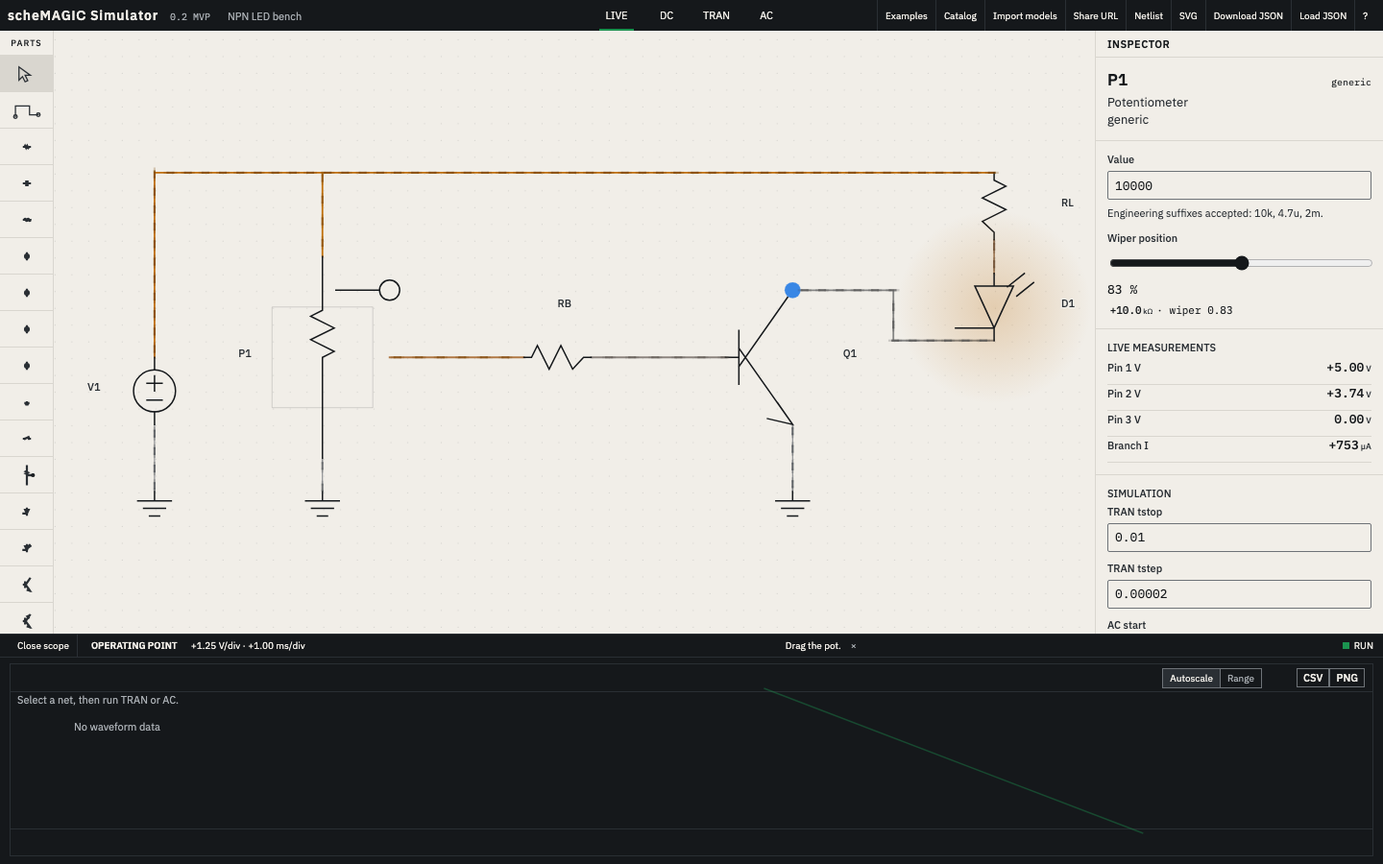
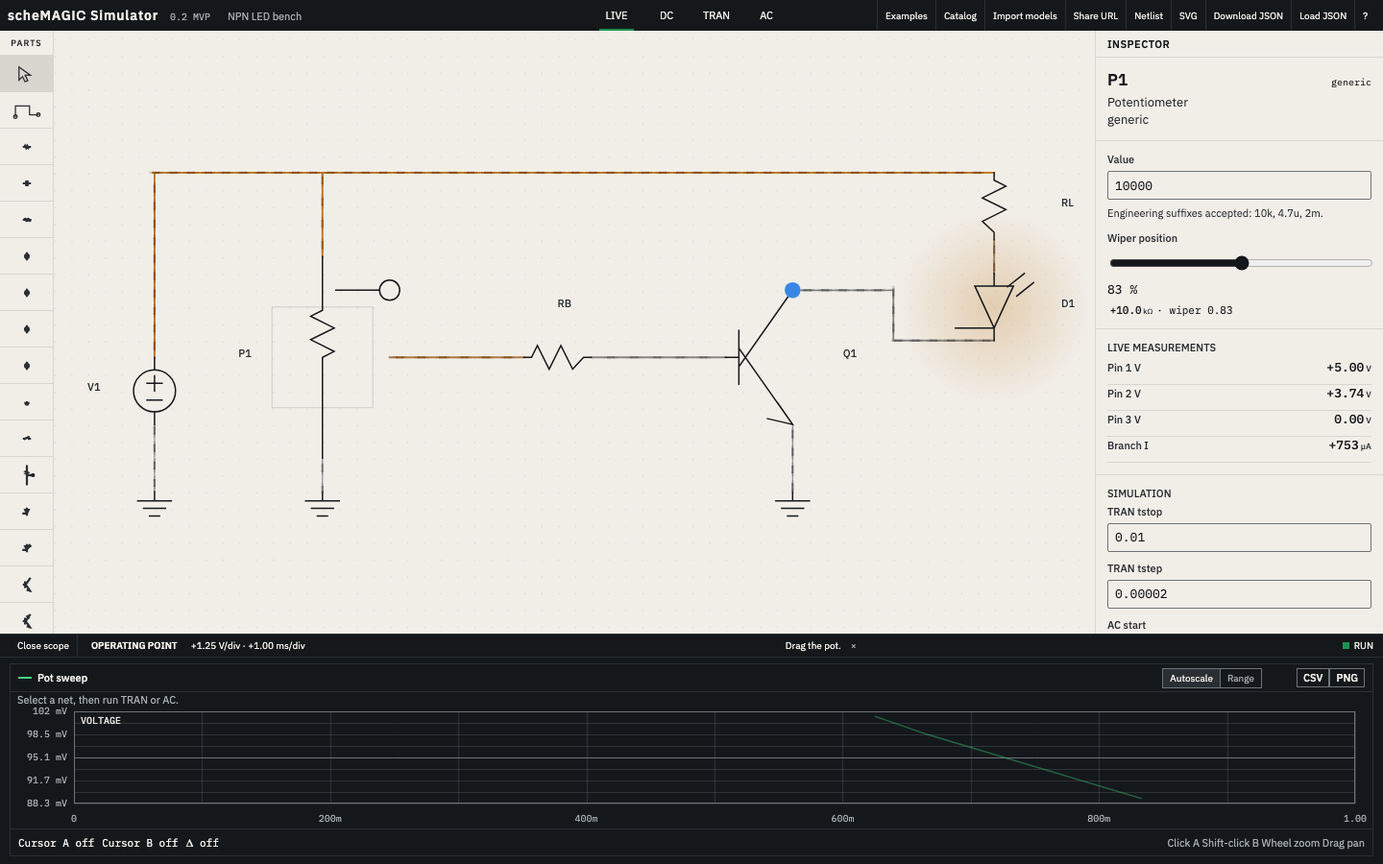
fix(web): clip pot sweep locus

Changed region(s): [[0.0312, 0.7778, 0.9688, 0.9644], [0.8438, 0.9644, 0.9688, 0.9956], [0.0312, 0.9644, 0.1562, 0.9956]]

diff --git a/apps/web/src/main.ts b/apps/web/src/main.ts
@@ -67,13 +67,13 @@ function simConfigMarkup(){const tran=circuit.sim.tran??{tstop:.01,tstep:.00002}
 function bindInspector(){document.querySelector<HTMLButtonElement>("[data-inspector-model-card]")?.addEventListener("click",event=>catalogDialog.open((event.currentTarget as HTMLButtonElement).dataset.inspectorModelCard));const value=document.querySelector<HTMLInputElement>("#component-value");value?.addEventListener("change",()=>{if(!selectedId)return;const raw=value.value.trim();if(!Number.isFinite(parseEngineering(raw,NaN)))return;editor.edit(doc=>{const c=doc.components.find(item=>item.id===selectedId);if(c)c.value=raw;});});const wiper=document.querySelector<HTMLInputElement>("#wiper-value");wiper?.addEventListener("pointerdown",()=>{liveGesture=true;editor.beginGesture();scopePlot.beginLocus();const finish=()=>{editor.endGesture();liveGesture=false;scopePlot.endLocus();renderInspector();};window.addEventListener("pointerup",finish,{once:true});});wiper?.addEventListener("input",()=>{const t=Number(wiper.value);editor.editLive(doc=>{const c=doc.components.find(item=>item.id===selectedId);if(c)c.params={...(c.params??{}),t};});patchReadings();});document.querySelector<HTMLInputElement>("#switch-state")?.addEventListener("change",event=>editor.edit(doc=>{const c=doc.components.find(item=>item.id===selectedId);if(c)c.params={...(c.params??{}),closed:(event.target as HTMLInputElement).checked};}));document.querySelectorAll<HTMLInputElement>(".sim-field").forEach(input=>input.addEventListener("change",()=>{const number=parseEngineering(input.value,NaN);if(!Number.isFinite(number)||number<=0)return;editor.edit(doc=>{doc.sim.tran??={tstop:.01,tstep:.00002,maxstep:.00005};doc.sim.ac??={fstart:10,fstop:1e6,pointsPerDecade:30,sweep:"dec"};switch(input.dataset.sim){case"tstop":doc.sim.tran.tstop=number;break;case"tstep":doc.sim.tran.tstep=number;break;case"fstart":doc.sim.ac.fstart=number;break;case"fstop":doc.sim.ac.fstop=number;break;case"points":doc.sim.ac.pointsPerDecade=Math.round(number);break;}});}));}
 function scheduleSave(){clearTimeout(saveTimer);saveTimer=setTimeout(()=>{workspace!.document=circuit;workspace!.updatedAt=Date.now();void saveWorkspace(workspace!);must<HTMLElement>("#workspace-button").textContent=workspace!.name;},250);}
 function scheduleSimulation(){clearTimeout(timer);timer=setTimeout(()=>void simulate(),30)}
-async function loadExample(id:string){const example=EXAMPLES.find(item=>item.id===id);if(!example)return;circuit=structuredClone(example.document);workspace=makeWorkspace(circuit,example.title);selectedId=circuit.components[0]?.id;editor.setDocument(circuit);requestAnimationFrame(()=>editor.fit());renderImportedPalette();must<HTMLElement>("#workspace-button").textContent=workspace.name;document.querySelectorAll<HTMLButtonElement>("[data-mode]").forEach(button=>button.setAttribute("aria-selected",String(button.dataset.mode===circuit.sim.mode)));must<HTMLElement>("#scope-title").textContent=circuit.sim.mode==="tran"?"TRANSIENT":circuit.sim.mode==="ac"?"AC RESPONSE":"OPERATING POINT";history.replaceState(null,"",exampleHash(id));await saveWorkspace(workspace);renderInspector();scheduleSimulation();}
+async function loadExample(id:string){const example=EXAMPLES.find(item=>item.id===id);if(!example)return;scopePlot.clearLocus();circuit=structuredClone(example.document);workspace=makeWorkspace(circuit,example.title);selectedId=circuit.components[0]?.id;editor.setDocument(circuit);requestAnimationFrame(()=>editor.fit());renderImportedPalette();must<HTMLElement>("#workspace-button").textContent=workspace.name;document.querySelectorAll<HTMLButtonElement>("[data-mode]").forEach(button=>button.setAttribute("aria-selected",String(button.dataset.mode===circuit.sim.mode)));must<HTMLElement>("#scope-title").textContent=circuit.sim.mode==="tran"?"TRANSIENT":circuit.sim.mode==="ac"?"AC RESPONSE":"OPERATING POINT";history.replaceState(null,"",exampleHash(id));await saveWorkspace(workspace);renderInspector();scheduleSimulation();}
 function renderDiagnostics(){const stack=must<HTMLElement>("#toast-stack");stack.innerHTML=diagnostics.map((entry,index)=>`<button class="error-toast" data-error="${index}"><span class="fault-glyph"></span>${esc(entry.message)}</button>`).join("");stack.querySelectorAll<HTMLButtonElement>("[data-error]").forEach(button=>button.addEventListener("click",()=>{const entry=diagnostics[Number(button.dataset.error)];if(entry?.componentId){selectedId=entry.componentId;renderInspector();}}));}
 function applyWireVisuals(){if(!generated)return;for(const wire of latestWireFlows){const node=generated.wireNodes[wire.id]??"0";const chromaScale=hoveredNode&&hoveredNode!==node?.toString()?0.35:1;editor.setWireStyle(wire.id,{stroke:voltageColor(wire.voltage,latestVref,chromaScale),dash:wire.voltage<-.05?"8 4":"none",width:Math.abs(wire.voltage)<=.05?0.9:1.8});editor.setWireCurrent(wire.id,wire.current);}pulseRenderer.update(latestWireFlows,latestVref);}
 function updateVisuals(){if(!generated)return;const targets=new Map<string,number>();for(const node of new Set(Object.values(generated.wireNodes)))targets.set(node,node==="0"?0:scalar(visualResult,`v(${node})`)??0);const now=performance.now(),tau=liveGesture?40:120,alpha=1-Math.exp(-(now-lastVoltageUpdate)/tau);lastVoltageUpdate=now;for(const [node,target] of targets)smoothedVoltages.set(node,smoothedVoltages.has(node)?(smoothedVoltages.get(node)!+(target-smoothedVoltages.get(node)!)*alpha):target);latestVref=snapReference([...targets.values()]);latestWireFlows=circuit.wires.map(wire=>{const node=generated!.wireNodes[wire.id]??"0",voltage=smoothedVoltages.get(node)??targets.get(node)??0,endpoints=new Set(wire.points.map(point=>point.join(","))),attached=circuit.components.filter(component=>component.type!=="ground").filter(component=>componentPinPoints(component).some(point=>endpoints.has(point.join(",")))).sort((a,b)=>a.id.localeCompare(b.id)),owner=attached.find(component=>generated!.componentCurrents[component.id]);let current=owner?scalar(visualResult,currentVector(generated!.componentCurrents[owner.id]!))??0:0;const pin0=owner&&componentPinPoints(owner)[0];if(pin0&&endpoints.has(pin0.join(",")))current=-current;return{id:wire.id,voltage,current};});applyWireVisuals();for(const component of circuit.components.filter(c=>c.type==="led")){const current=Math.abs(componentCurrent(component)??0),visible=Math.max(0,Math.min(1,(current-200e-6)/(20e-3-200e-6)));editor.setLedBrightness(component.id,visible**.65);}const reference=formatEngineering(latestVref,"V"),half=formatEngineering(latestVref/2,"V"),referenceValue=reference.value.replace(/^[+− ]/,""),halfValue=half.value.replace(/^[+− ]/,"");must<HTMLElement>("#vref-negative").textContent=`−${referenceValue} ${reference.unit}`;must<HTMLElement>("#vref-negative-half").textContent=`−${halfValue} ${half.unit}`;must<HTMLElement>("#vref-positive-half").textContent=`+${halfValue} ${half.unit}`;must<HTMLElement>("#vref-positive").textContent=`+${referenceValue} ${reference.unit}`;must<HTMLElement>("#scope-vdiv").textContent=`${formatEngineering(latestVref/4,"V").value.trim()} ${formatEngineering(latestVref/4,"V").unit}/div`;const secondsPerDivision=(circuit.sim.tran?.tstop??.01)/10;must<HTMLElement>("#scope-sdiv").textContent=`${formatEngineering(secondsPerDivision,"s").value.trim()} ${formatEngineering(secondsPerDivision,"s").unit}/div`;scopePlot.setProbes(activeScopeProbes());scopePlot.setData(circuit.sim.mode,circuit.sim.mode==="tran"||circuit.sim.mode==="ac"?scopeResult:undefined);scopeEmpty.hidden=(scopeResult?.vectors.length??0)>0&&circuit.probes.length>0;if(liveGesture){const pot=circuit.components.find(component=>component.type==="potentiometer"),probe=activeScopeProbes()[0];if(pot&&probe){const value=probe.node==="0"?0:scalar(visualResult,`v(${probe.node})`);if(value!==undefined)scopePlot.addLocusPoint(Number(pot.params?.t??.5),value);}}renderProbeMarkers();if(liveGesture)patchReadings();else renderInspector();renderDiagnostics();}
 async function simulate(){const generation=++solve;setStatus("Running ngspice WebAssembly solve","busy");diagnostics=loadDiagnostic?[loadDiagnostic]:[];const validation=validateCircuit(circuit);if(validation.length){diagnostics.push(...validation.map(issue=>({stage:"parse" as const,message:issue.message,...(issue.componentId?{componentId:issue.componentId}:{})})));setStatus(validation[0]!.message,"error");renderDiagnostics();return;}try{generated=generateProjectNetlist(circuit,"op");const op=await client.runOpPoint(generated.netlist);if(generation!==solve)return;visualResult=op;window.__ocMetrics.rawfileBytes=op.rawfileBytes;window.__ocMetrics.warmOpMs.push(op.elapsedMs);if(circuit.sim.mode==="tran"||circuit.sim.mode==="ac"){generated=generateProjectNetlist(circuit,circuit.sim.mode);scopeResult=circuit.sim.mode==="tran"?await client.runTransient(generated.netlist):await client.runAC(generated.netlist);if(generation!==solve)return;window.__ocMetrics.rawfileBytes=Math.max(op.rawfileBytes,scopeResult.rawfileBytes);}else scopeResult=undefined;setStatus(`ENGINE READY · ${engineLabel} · ${op.elapsedMs.toFixed(1)} ms solve`,"ready");updateVisuals();}catch(error){if(generation!==solve)return;const failure=error instanceof SimulationFailure?error:undefined;diagnostics=failure?.detail.diagnostics.length?failure.detail.diagnostics.map(entry=>{if(entry.componentId||entry.netLine===undefined)return entry;const mapped=generated?.lineMap.find(line=>line.line===entry.netLine);return mapped?.componentId?{...entry,componentId:mapped.componentId}:entry;}):[{stage:"engine",message:error instanceof Error?error.message:String(error)}];const failedPot=liveGesture?circuit.components.find(component=>component.type==="potentiometer"):undefined;setStatus(failedPot?`no convergence at wiper ${Number(failedPot.params?.t??.5).toFixed(2)}`:(diagnostics[0]?.message??"Simulation failed"),"error");renderDiagnostics();}finally{}}
-function bind(){must<HTMLButtonElement>("#catalog-button").addEventListener("click",()=>catalogDialog.open());const examplesOverlay=must<HTMLElement>("#examples-overlay");must<HTMLButtonElement>("#examples-button").addEventListener("click",()=>examplesOverlay.hidden=false);examplesOverlay.querySelector("[data-close-examples]")?.addEventListener("click",()=>examplesOverlay.hidden=true);examplesOverlay.querySelectorAll<HTMLButtonElement>("[data-example]").forEach(button=>button.addEventListener("click",async()=>{examplesOverlay.hidden=true;await loadExample(button.dataset.example!);}));must<HTMLButtonElement>("#import-models").addEventListener("click",()=>modelImportDialog.open());const about=must<HTMLElement>("#about-overlay");must<HTMLButtonElement>("#about-licences").addEventListener("click",()=>about.hidden=false);about.querySelector("[data-close-about]")?.addEventListener("click",()=>about.hidden=true);renderImportedPalette();const guidance=must<HTMLElement>("#guidance");guidance.hidden=localStorage.getItem("schemagic.guidance-dismissed")==="1";must<HTMLButtonElement>("#guidance-dismiss").addEventListener("click",()=>{localStorage.setItem("schemagic.guidance-dismissed","1");guidance.hidden=true;});document.querySelectorAll<HTMLButtonElement>("[data-tool]").forEach(button=>button.addEventListener("click",()=>{pendingCatalogPart=undefined;pendingImportedPart=undefined;editor.setTool(button.dataset.tool as Parameters<typeof editor.setTool>[0]);document.querySelectorAll("[data-tool]").forEach(item=>item.classList.toggle("active",item===button));}));document.querySelectorAll<HTMLButtonElement>("[data-mode]").forEach(button=>button.addEventListener("click",()=>{const mode=button.dataset.mode as AnalysisMode;editor.edit(doc=>{doc.sim.mode=mode});document.querySelectorAll<HTMLButtonElement>("[data-mode]").forEach(item=>item.setAttribute("aria-selected",String(item===button)));must<HTMLElement>("#scope-title").textContent=mode==="tran"?"TRANSIENT":mode==="ac"?"AC RESPONSE":"OPERATING POINT";}));must<HTMLButtonElement>("#scope-toggle").addEventListener("click",()=>{shell.classList.toggle("scope-collapsed");must<HTMLButtonElement>("#scope-toggle").textContent=shell.classList.contains("scope-collapsed")?"Open scope":"Close scope";});must<HTMLButtonElement>("#copy-link").addEventListener("click",async()=>{if(importedParts(circuit).length){setStatus("Imported model source stays browser-local. Use Download JSON to export the project.","error");return;}const url=shareUrl(circuit);if(url.length>8000)setStatus("Share URL is long. Download JSON is recommended.","error");try{await navigator.clipboard.writeText(url);setStatus("Share URL copied","ready");}catch{history.replaceState(null,"",url);setStatus("Share URL placed in the address bar","ready");}});must<HTMLButtonElement>("#export-spice").addEventListener("click",()=>{try{download(`${workspace!.name}.cir`,generateProjectNetlist(circuit,circuit.sim.mode==="live"?"op":circuit.sim.mode).netlist,"text/plain");}catch(error){setStatus(error instanceof Error?error.message:String(error),"error");}});must<HTMLButtonElement>("#export-svg").addEventListener("click",()=>download(`${workspace!.name}.svg`,editor.exportSvg(),"image/svg+xml"));must<HTMLButtonElement>("#export-json").addEventListener("click",()=>download(`${workspace!.name}.json`,canonicalizeCircuit(circuit),"application/json"));must<HTMLButtonElement>("#import-json").addEventListener("click",()=>must<HTMLInputElement>("#json-file").click());must<HTMLInputElement>("#json-file").addEventListener("change",async event=>{const file=(event.target as HTMLInputElement).files?.[0];if(!file)return;try{const loaded=migrateCircuit(JSON.parse(await file.text()));workspace=makeWorkspace(loaded);circuit=loaded;editor.setDocument(loaded);requestAnimationFrame(()=>editor.fit());renderImportedPalette();await saveWorkspace(workspace);scheduleSimulation();}catch(error){diagnostics=[{stage:"parse",message:error instanceof Error?error.message:String(error)}];renderDiagnostics();}});const shortcut=must<HTMLElement>("#shortcut-overlay");must<HTMLButtonElement>("#help-button").addEventListener("click",()=>shortcut.hidden=false);shortcut.querySelector("[data-close-overlay]")?.addEventListener("click",()=>shortcut.hidden=true);window.addEventListener("keydown",event=>{if(event.key==="?"&&!(event.target instanceof HTMLInputElement)){shortcut.hidden=false;}if(event.key==="Escape")shortcut.hidden=true;});bindWorkspaces();}
-function bindWorkspaces(){const overlay=must<HTMLElement>("#workspace-overlay"),button=must<HTMLButtonElement>("#workspace-button");button.addEventListener("click",()=>{overlay.hidden=false;void renderWorkspaceList();});overlay.querySelector("[data-close-workspaces]")?.addEventListener("click",()=>overlay.hidden=true);must<HTMLButtonElement>("#new-workspace").addEventListener("click",async()=>{workspace=makeWorkspace(structuredClone(demoCircuit),"Untitled circuit");workspace.document.meta.title=workspace.name;editor.setDocument(workspace.document);requestAnimationFrame(()=>editor.fit());renderImportedPalette();circuit=workspace.document;await saveWorkspace(workspace);button.textContent=workspace.name;overlay.hidden=true;scheduleSimulation();});must<HTMLButtonElement>("#rename-workspace").addEventListener("click",async()=>{const name=prompt("Workspace name",workspace!.name)?.trim();if(!name)return;workspace!.name=name;editor.edit(doc=>doc.meta.title=name);workspace!.updatedAt=Date.now();await saveWorkspace(workspace!);button.textContent=name;void renderWorkspaceList();});must<HTMLButtonElement>("#duplicate-workspace").addEventListener("click",async()=>{workspace=makeWorkspace(circuit,`${workspace!.name} copy`);workspace.document.meta.title=workspace.name;editor.setDocument(workspace.document);requestAnimationFrame(()=>editor.fit());renderImportedPalette();circuit=workspace.document;await saveWorkspace(workspace);button.textContent=workspace.name;void renderWorkspaceList();});must<HTMLButtonElement>("#delete-workspace").addEventListener("click",async()=>{await deleteWorkspace(workspace!.id);workspace=makeWorkspace(structuredClone(demoCircuit));circuit=workspace.document;editor.setDocument(circuit);requestAnimationFrame(()=>editor.fit());renderImportedPalette();await saveWorkspace(workspace);button.textContent=workspace.name;overlay.hidden=true;scheduleSimulation();});}
-async function renderWorkspaceList(){const rows=await listWorkspaces();must<HTMLElement>("#workspace-list").innerHTML=rows.map(row=>`<button class="workspace-row" data-workspace="${row.id}"><strong>${esc(row.name)}</strong><span>${new Date(row.updatedAt).toLocaleString()}</span></button>`).join("");document.querySelectorAll<HTMLButtonElement>("[data-workspace]").forEach(row=>row.addEventListener("click",async()=>{const loaded=await loadWorkspace(row.dataset.workspace!);if(!loaded)return;workspace=loaded;circuit=loaded.document;editor.setDocument(circuit);requestAnimationFrame(()=>editor.fit());renderImportedPalette();must<HTMLElement>("#workspace-button").textContent=workspace.name;must<HTMLElement>("#workspace-overlay").hidden=true;scheduleSimulation();}));}
+function bind(){must<HTMLButtonElement>("#catalog-button").addEventListener("click",()=>catalogDialog.open());const examplesOverlay=must<HTMLElement>("#examples-overlay");must<HTMLButtonElement>("#examples-button").addEventListener("click",()=>examplesOverlay.hidden=false);examplesOverlay.querySelector("[data-close-examples]")?.addEventListener("click",()=>examplesOverlay.hidden=true);examplesOverlay.querySelectorAll<HTMLButtonElement>("[data-example]").forEach(button=>button.addEventListener("click",async()=>{examplesOverlay.hidden=true;await loadExample(button.dataset.example!);}));must<HTMLButtonElement>("#import-models").addEventListener("click",()=>modelImportDialog.open());const about=must<HTMLElement>("#about-overlay");must<HTMLButtonElement>("#about-licences").addEventListener("click",()=>about.hidden=false);about.querySelector("[data-close-about]")?.addEventListener("click",()=>about.hidden=true);renderImportedPalette();const guidance=must<HTMLElement>("#guidance");guidance.hidden=localStorage.getItem("schemagic.guidance-dismissed")==="1";must<HTMLButtonElement>("#guidance-dismiss").addEventListener("click",()=>{localStorage.setItem("schemagic.guidance-dismissed","1");guidance.hidden=true;});document.querySelectorAll<HTMLButtonElement>("[data-tool]").forEach(button=>button.addEventListener("click",()=>{pendingCatalogPart=undefined;pendingImportedPart=undefined;editor.setTool(button.dataset.tool as Parameters<typeof editor.setTool>[0]);document.querySelectorAll("[data-tool]").forEach(item=>item.classList.toggle("active",item===button));}));document.querySelectorAll<HTMLButtonElement>("[data-mode]").forEach(button=>button.addEventListener("click",()=>{const mode=button.dataset.mode as AnalysisMode;scopePlot.clearLocus();editor.edit(doc=>{doc.sim.mode=mode});document.querySelectorAll<HTMLButtonElement>("[data-mode]").forEach(item=>item.setAttribute("aria-selected",String(item===button)));must<HTMLElement>("#scope-title").textContent=mode==="tran"?"TRANSIENT":mode==="ac"?"AC RESPONSE":"OPERATING POINT";}));must<HTMLButtonElement>("#scope-toggle").addEventListener("click",()=>{shell.classList.toggle("scope-collapsed");must<HTMLButtonElement>("#scope-toggle").textContent=shell.classList.contains("scope-collapsed")?"Open scope":"Close scope";});must<HTMLButtonElement>("#copy-link").addEventListener("click",async()=>{if(importedParts(circuit).length){setStatus("Imported model source stays browser-local. Use Download JSON to export the project.","error");return;}const url=shareUrl(circuit);if(url.length>8000)setStatus("Share URL is long. Download JSON is recommended.","error");try{await navigator.clipboard.writeText(url);setStatus("Share URL copied","ready");}catch{history.replaceState(null,"",url);setStatus("Share URL placed in the address bar","ready");}});must<HTMLButtonElement>("#export-spice").addEventListener("click",()=>{try{download(`${workspace!.name}.cir`,generateProjectNetlist(circuit,circuit.sim.mode==="live"?"op":circuit.sim.mode).netlist,"text/plain");}catch(error){setStatus(error instanceof Error?error.message:String(error),"error");}});must<HTMLButtonElement>("#export-svg").addEventListener("click",()=>download(`${workspace!.name}.svg`,editor.exportSvg(),"image/svg+xml"));must<HTMLButtonElement>("#export-json").addEventListener("click",()=>download(`${workspace!.name}.json`,canonicalizeCircuit(circuit),"application/json"));must<HTMLButtonElement>("#import-json").addEventListener("click",()=>must<HTMLInputElement>("#json-file").click());must<HTMLInputElement>("#json-file").addEventListener("change",async event=>{const file=(event.target as HTMLInputElement).files?.[0];if(!file)return;try{const loaded=migrateCircuit(JSON.parse(await file.text()));scopePlot.clearLocus();workspace=makeWorkspace(loaded);circuit=loaded;editor.setDocument(loaded);requestAnimationFrame(()=>editor.fit());renderImportedPalette();await saveWorkspace(workspace);scheduleSimulation();}catch(error){diagnostics=[{stage:"parse",message:error instanceof Error?error.message:String(error)}];renderDiagnostics();}});const shortcut=must<HTMLElement>("#shortcut-overlay");must<HTMLButtonElement>("#help-button").addEventListener("click",()=>shortcut.hidden=false);shortcut.querySelector("[data-close-overlay]")?.addEventListener("click",()=>shortcut.hidden=true);window.addEventListener("keydown",event=>{if(event.key==="?"&&!(event.target instanceof HTMLInputElement)){shortcut.hidden=false;}if(event.key==="Escape")shortcut.hidden=true;});bindWorkspaces();}
+function bindWorkspaces(){const overlay=must<HTMLElement>("#workspace-overlay"),button=must<HTMLButtonElement>("#workspace-button");button.addEventListener("click",()=>{overlay.hidden=false;void renderWorkspaceList();});overlay.querySelector("[data-close-workspaces]")?.addEventListener("click",()=>overlay.hidden=true);must<HTMLButtonElement>("#new-workspace").addEventListener("click",async()=>{scopePlot.clearLocus();workspace=makeWorkspace(structuredClone(demoCircuit),"Untitled circuit");workspace.document.meta.title=workspace.name;editor.setDocument(workspace.document);requestAnimationFrame(()=>editor.fit());renderImportedPalette();circuit=workspace.document;await saveWorkspace(workspace);button.textContent=workspace.name;overlay.hidden=true;scheduleSimulation();});must<HTMLButtonElement>("#rename-workspace").addEventListener("click",async()=>{const name=prompt("Workspace name",workspace!.name)?.trim();if(!name)return;workspace!.name=name;editor.edit(doc=>doc.meta.title=name);workspace!.updatedAt=Date.now();await saveWorkspace(workspace!);button.textContent=name;void renderWorkspaceList();});must<HTMLButtonElement>("#duplicate-workspace").addEventListener("click",async()=>{scopePlot.clearLocus();workspace=makeWorkspace(circuit,`${workspace!.name} copy`);workspace.document.meta.title=workspace.name;editor.setDocument(workspace.document);requestAnimationFrame(()=>editor.fit());renderImportedPalette();circuit=workspace.document;await saveWorkspace(workspace);button.textContent=workspace.name;void renderWorkspaceList();});must<HTMLButtonElement>("#delete-workspace").addEventListener("click",async()=>{await deleteWorkspace(workspace!.id);scopePlot.clearLocus();workspace=makeWorkspace(structuredClone(demoCircuit));circuit=workspace.document;editor.setDocument(circuit);requestAnimationFrame(()=>editor.fit());renderImportedPalette();await saveWorkspace(workspace);button.textContent=workspace.name;overlay.hidden=true;scheduleSimulation();});}
+async function renderWorkspaceList(){const rows=await listWorkspaces();must<HTMLElement>("#workspace-list").innerHTML=rows.map(row=>`<button class="workspace-row" data-workspace="${row.id}"><strong>${esc(row.name)}</strong><span>${new Date(row.updatedAt).toLocaleString()}</span></button>`).join("");document.querySelectorAll<HTMLButtonElement>("[data-workspace]").forEach(row=>row.addEventListener("click",async()=>{const loaded=await loadWorkspace(row.dataset.workspace!);if(!loaded)return;scopePlot.clearLocus();workspace=loaded;circuit=loaded.document;editor.setDocument(circuit);requestAnimationFrame(()=>editor.fit());renderImportedPalette();must<HTMLElement>("#workspace-button").textContent=workspace.name;must<HTMLElement>("#workspace-overlay").hidden=true;scheduleSimulation();}));}
 async function boot(){bind();renderInspector();requestAnimationFrame(()=>editor.fit());renderImportedPalette();if(!openedFromShare)await saveWorkspace(workspace!);try{const ready=await client.ready;window.__ocMetrics.engineInitMs=ready.initMs;const wasmResource=performance.getEntriesByType("resource").find(entry=>entry.name.includes("ngspice-")&&entry.name.endsWith(".wasm")) as PerformanceResourceTiming|undefined;window.__ocMetrics.wasmTransferSize=wasmResource?.transferSize||wasmResource?.encodedBodySize||0;engineLabel=ready.engine;await simulate();}catch(error){diagnostics=[{stage:"engine",message:error instanceof Error?error.message:String(error)}];setStatus(diagnostics[0]!.message,"error");renderDiagnostics();}if("serviceWorker"in navigator)void navigator.serviceWorker.register("/sw.js");}
 void boot();window.addEventListener("beforeunload",()=>{pulseRenderer.dispose();client.dispose();});

diff --git a/apps/web/e2e/editor.spec.ts b/apps/web/e2e/editor.spec.ts
@@ -21,7 +21,7 @@ test("editor MVP workflow",async({page,context,browserName},testInfo)=>{
   await page.waitForTimeout(500);await page.reload();await expect(page.getByText("scheMAGIC Simulator",{exact:true})).toBeVisible();await expect(page.locator(".editor-component")).toHaveCount(11);const savedValue=await page.evaluate(()=>new Promise<string|number|undefined>((resolve,reject)=>{const open=indexedDB.open("schemagic-simulator");open.onerror=()=>reject(open.error);open.onsuccess=()=>{const db=open.result,id=localStorage.getItem("schemagic.active-workspace");if(!id){resolve(undefined);return;}const request=db.transaction("workspaces").objectStore("workspaces").get(id);request.onerror=()=>reject(request.error);request.onsuccess=()=>resolve(request.result?.document?.components?.find((item:{value?:string|number})=>item.value==="4.7k")?.value);};}));expect(savedValue).toBe("4.7k");
   expect(browserName).toMatch(/chromium|firefox|webkit/);
 });
-test("renders live voltage, current and continuous pot drag",async({page},testInfo)=>{test.skip(testInfo.project.name!=="chromium","Measured visual assertions run in Chromium");const stroke=await page.locator('path.editor-wire[data-wire-id="w1"]').evaluate(element=>getComputedStyle(element).stroke);expect(stroke).toContain("oklch");expect(stroke).toContain("0.14");expect(stroke).not.toBe("rgb(110, 115, 120)");const branch=page.getByTestId("branch-current");await expect(branch).not.toContainText("--");await expect(branch).not.toContainText("–");const currentText=(await branch.textContent())?.trim()??"";expect(currentText).toMatch(/[0-9]/);const points=await page.locator('[data-pot-hit="c2"]').evaluate(element=>{const matrix=(element as SVGGraphicsElement).getScreenCTM();if(!matrix)throw new Error("Pot transform missing");return[0,-2,-4].map(y=>{const point=new DOMPoint(4,y).matrixTransform(matrix);return{x:point.x,y:point.y};});});await page.mouse.move(points[0]!.x,points[0]!.y);await page.mouse.down();const displayed:string[]=[];for(const point of points.slice(1)){await page.mouse.move(point.x,point.y,{steps:4});displayed.push((await page.locator("#wiper-percent").textContent())??"");}expect(new Set(displayed).size).toBeGreaterThan(1);expect(displayed.every(value=>value!=="50 %")).toBeTruthy();await page.waitForTimeout(120);const haloOpacity=await page.locator('[data-led-halo="c6"]').evaluate(element=>Number(getComputedStyle(element).opacity));expect(haloOpacity).toBeGreaterThan(0);await page.screenshot({path:resolve(shots,"pot-live-drag.png"),fullPage:true});await page.mouse.up();});
+test("renders live voltage, current and continuous pot drag",async({page},testInfo)=>{test.skip(testInfo.project.name!=="chromium","Measured visual assertions run in Chromium");const stroke=await page.locator('path.editor-wire[data-wire-id="w1"]').evaluate(element=>getComputedStyle(element).stroke);expect(stroke).toContain("oklch");expect(stroke).toContain("0.14");expect(stroke).not.toBe("rgb(110, 115, 120)");const branch=page.getByTestId("branch-current");await expect(branch).not.toContainText("--");await expect(branch).not.toContainText("–");const currentText=(await branch.textContent())?.trim()??"";expect(currentText).toMatch(/[0-9]/);const points=await page.locator('[data-pot-hit="c2"]').evaluate(element=>{const matrix=(element as SVGGraphicsElement).getScreenCTM();if(!matrix)throw new Error("Pot transform missing");return[0,-2,-4].map(y=>{const point=new DOMPoint(4,y).matrixTransform(matrix);return{x:point.x,y:point.y};});});await page.mouse.move(points[0]!.x,points[0]!.y);await page.mouse.down();const displayed:string[]=[];for(const point of points.slice(1)){await page.mouse.move(point.x,point.y,{steps:4});displayed.push((await page.locator("#wiper-percent").textContent())??"");}expect(new Set(displayed).size).toBeGreaterThan(1);expect(displayed.every(value=>value!=="50 %")).toBeTruthy();await page.waitForTimeout(120);const haloOpacity=await page.locator('[data-led-halo="c6"]').evaluate(element=>Number(getComputedStyle(element).opacity));expect(haloOpacity).toBeGreaterThan(0);await expect(page.getByRole("button",{name:"Close scope"})).toBeVisible();await expect(page.locator("#scope-host > svg.scope-locus, #scope-host .scope-locus-line")).toHaveCount(0);const annotation=page.locator(".oc-waveform-viewer__annotation");await expect(annotation).toHaveText("Pot sweep");await page.screenshot({path:resolve(shots,"pot-live-drag.png"),fullPage:true});await page.mouse.up();const keepLocus=page.getByRole("button",{name:"Keep locus"});await expect(keepLocus).toBeVisible();await keepLocus.click();await expect(keepLocus).toBeHidden();await expect(annotation).toHaveText("Pot sweep");await page.locator(".oc-waveform-viewer__canvas").click();await expect(page.locator(".oc-waveform-viewer__readout")).toContainText("A:Pot sweep");});
 test("imports a sanitized model with pin mapping",async({page},testInfo)=>{test.skip(testInfo.project.name!=="chromium","Import screenshot is captured once in Chromium");await page.getByRole("button",{name:"Import models"}).click();await page.locator("#model-text").fill(`.subckt SAFE_D A K\n.model DM D(Is=1e-14)\nD1 A K DM\n.ends SAFE_D`);await page.getByRole("button",{name:"Parse and review"}).click();await expect(page.getByText("Parse results")).toBeVisible();await expect(page.getByText("Mapping is complete and bijective.")).toBeVisible();await expect(page.getByText("Blocked items")).toBeVisible();await page.screenshot({path:resolve(shots,"import-models.png"),fullPage:true});await page.locator("[data-subckt-index=\"0\"]").getByRole("button",{name:"Add imported part"}).click();await page.getByRole("dialog",{name:"Import models"}).getByRole("button",{name:"Close"}).click();await expect(page.getByText("IMPORTED",{exact:true})).toBeVisible();await page.getByRole("button",{name:"Place imported SAFE_D"}).click();const box=await page.locator("#editor-host").boundingBox();if(!box)throw new Error("Editor host is not visible");await page.mouse.click(box.x+520,box.y+250);await expect(page.locator(".unverified-tag").last()).toHaveText("imported, unverified");await page.getByRole("button",{name:"Share URL"}).click();await expect(page.locator("#engine-status")).toHaveText("Imported model source stays browser-local. Use Download JSON to export the project.");});
 test("renders AC Bode twin panel with a probe",async({page},testInfo)=>{test.skip(testInfo.project.name!=="chromium","Bode screenshot is captured once in Chromium");await page.locator(".editor-hit").first().dispatchEvent("pointerdown",{button:0,pointerId:17,clientX:200,clientY:200});await page.locator(".schematic-editor").dispatchEvent("pointerup",{button:0,pointerId:17,clientX:200,clientY:200});await expect(page.locator(".scope-probe-marker")).toHaveCount(2);await page.locator('[data-mode="ac"]').click();await expect(page.locator("#scope-title")).toHaveText("AC RESPONSE");await expect(page.locator(".oc-waveform-viewer__trace")).toHaveCount(2,{timeout:45_000});await expect(page.locator(".scope-probe-marker")).toHaveCount(2);await page.screenshot({path:resolve(shots,"bode-waveform-viewer.png"),fullPage:true});});
 test("captures wire and shortcut states",async({page},testInfo)=>{test.skip(testInfo.project.name!=="chromium","Screenshots are captured once in Chromium");const host=page.locator("#editor-host"),box=await host.boundingBox();if(!box)throw new Error("Editor host is not visible");await page.locator('[data-tool="wire"]').click();await page.mouse.click(box.x+320,box.y+180);await page.mouse.move(box.x+420,box.y+240);await expect(page.locator(".wire-preview")).toBeVisible();await page.screenshot({path:resolve(shots,"editor-mid-wire.png"),fullPage:true});await page.getByRole("button",{name:"Keyboard shortcuts"}).click();await expect(page.getByRole("dialog",{name:"Keyboard shortcuts"})).toBeVisible();await page.screenshot({path:resolve(shots,"shortcut-help.png"),fullPage:true});await page.getByRole("dialog",{name:"Keyboard shortcuts"}).getByRole("button",{name:"Close"}).click();await page.getByRole("button",{name:"About + licences"}).click();const about=page.getByRole("dialog",{name:"About and licences"});await expect(about.getByText("ngspice-46")).toBeVisible();await expect(about.getByText("KLU and SuiteSparse")).toBeVisible();await expect(about.getByText("SPARSE 1.3")).toBeVisible();await expect(about.getByText("Emscripten 5.0.7")).toBeVisible();await expect(about.getByRole("link")).toHaveCount(4);});

diff --git a/apps/web/src/scope.ts b/apps/web/src/scope.ts
@@ -3,6 +3,7 @@ import type { AnalysisMode, SimulationResult } from "@opencircuit/sim-engine";
 
 export const TRACE_COLORS = ["#3FD983", "#E8A244", "#5FB0E8", "#F1EEE8", "#3FD983", "#E8A244"] as const;
 export const TRACE_DASHES = [[], [], [], [], [6, 3], [2, 3]] as const;
+const LOCUS_ANNOTATION_ID = "pot-sweep";
 
 export interface ScopeProbe {
   node: string;
@@ -18,11 +19,9 @@ function realFrequency(values: Float64Array): Float64Array {
 }
 
 export class ScopePlot {
-  private readonly host: HTMLElement;
   private readonly viewerHost: HTMLDivElement;
   private readonly autoButton: HTMLButtonElement;
   private readonly manualButton: HTMLButtonElement;
-  private readonly locusSvg: SVGSVGElement;
   private readonly keepLocusButton: HTMLButtonElement;
   private viewer: WaveformViewer | undefined;
   private probes: ScopeProbe[] = [];
@@ -32,7 +31,6 @@ export class ScopePlot {
   private locusActive = false;
 
   constructor(host: HTMLElement) {
-    this.host = host;
     const controls = document.createElement("div");
     controls.className = "scope-scale-controls";
     this.autoButton = document.createElement("button");
@@ -48,15 +46,12 @@ export class ScopePlot {
     controls.append(this.autoButton, this.manualButton);
     this.viewerHost = document.createElement("div");
     this.viewerHost.className = "scope-viewer-host";
-    this.locusSvg = document.createElementNS("http://www.w3.org/2000/svg", "svg");
-    this.locusSvg.classList.add("scope-locus");
-    this.locusSvg.setAttribute("aria-label", "Potentiometer sweep locus");
     this.keepLocusButton = document.createElement("button");
     this.keepLocusButton.type = "button";
     this.keepLocusButton.className = "keep-locus";
     this.keepLocusButton.textContent = "Keep locus";
     this.keepLocusButton.hidden = true;
-    this.host.replaceChildren(controls, this.viewerHost, this.locusSvg, this.keepLocusButton);
+    host.replaceChildren(controls, this.viewerHost, this.keepLocusButton);
     this.autoButton.addEventListener("click", () => {
       this.viewer?.autoscale();
       this.setScaleState(true);
@@ -64,18 +59,23 @@ export class ScopePlot {
     this.manualButton.addEventListener("click", () => this.promptManualRange());
     this.keepLocusButton.addEventListener("click", () => {
       this.keepLocusButton.hidden = true;
-      this.locusSvg.dataset.kept = "true";
+      this.renderLocus();
     });
-    new ResizeObserver(() => this.renderLocus()).observe(this.host);
     this.remount();
   }
 
   beginLocus(): void {
     this.locus = [];
     this.locusActive = true;
-    this.locusSvg.dataset.kept = "false";
     this.keepLocusButton.hidden = true;
     this.renderLocus();
+  }
+
+  clearLocus(): void {
+    this.locus = [];
+    this.locusActive = false;
+    this.keepLocusButton.hidden = true;
+    this.viewer?.removeAnnotation(LOCUS_ANNOTATION_ID);
   }
 
   addLocusPoint(wiper: number, voltage: number): void {
@@ -101,6 +101,7 @@ export class ScopePlot {
 
   setData(mode: AnalysisMode, result: SimulationResult | undefined): void {
     const modeChanged = this.mode !== mode;
+    if (modeChanged) this.clearLocus();
     this.mode = mode;
     this.result = result;
     if (modeChanged) this.remount();
@@ -134,6 +135,7 @@ export class ScopePlot {
       showControls: true,
       className: "schemagic-waveform-viewer",
     });
+    this.renderLocus();
   }
 
   private renderData(): void {
@@ -151,30 +153,24 @@ export class ScopePlot {
   }
 
   private renderLocus(): void {
-    const width = Math.max(1, this.host.clientWidth);
-    const height = Math.max(1, this.host.clientHeight);
-    this.locusSvg.setAttribute("viewBox", `0 0 ${width} ${height}`);
+    if (!this.viewer) return;
     if (this.locus.length < 2) {
-      this.locusSvg.replaceChildren();
+      this.viewer.removeAnnotation(LOCUS_ANNOTATION_ID);
       return;
     }
-    const values = this.locus.map((point) => point[1]);
-    const minimum = Math.min(...values);
-    const maximum = Math.max(...values);
-    const span = Math.max(1e-9, maximum - minimum);
-    const left = 52;
-    const right = 14;
-    const top = 26;
-    const bottom = 24;
-    const points = this.locus.map(([wiper, voltage]) => {
-      const x = left + Math.max(0, Math.min(1, wiper)) * Math.max(1, width - left - right);
-      const y = top + (1 - (voltage - minimum) / span) * Math.max(1, height - top - bottom);
-      return `${x.toFixed(2)},${y.toFixed(2)}`;
-    }).join(" ");
-    const polyline = document.createElementNS("http://www.w3.org/2000/svg", "polyline");
-    polyline.classList.add("scope-locus-line");
-    polyline.setAttribute("points", points);
-    this.locusSvg.replaceChildren(polyline);
+    this.viewer.addAnnotation({
+      id: LOCUS_ANNOTATION_ID,
+      label: "Pot sweep",
+      points: this.locus,
+      style: {
+        axisGroup: "voltage",
+        color: TRACE_COLORS[0],
+        lineWidth: 1.5,
+        opacity: 0.4,
+        unit: "V",
+        xMode: "normalized",
+      },
+    });
   }
 
   private setScaleState(auto: boolean): void {
